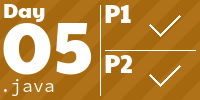
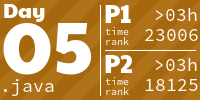
aoc tiles updated

diff --git a/README.md b/README.md
@@ -3,7 +3,7 @@
 
 <!-- AOC TILES BEGIN -->
 <h1 align="center">
-  2024 - 50 ⭐ - Java
+  2024 - 26 ⭐ - Java
 </h1>
 <a href="src/main/java/fr/home/mikedev/aoc2024/Main01.java">
   <img src=".aoc_tiles/tiles/2024/01.png" width="161px">
@@ -43,42 +43,6 @@
 </a>
 <a href="src/main/java/fr/home/mikedev/aoc2024/Main13.java">
   <img src=".aoc_tiles/tiles/2024/13.png" width="161px">
-</a>
-<a href="src/main/java/fr/home/mikedev/aoc2024/Main14.java">
-  <img src=".aoc_tiles/tiles/2024/14.png" width="161px">
-</a>
-<a href="src/main/java/fr/home/mikedev/aoc2024/Main15.java">
-  <img src=".aoc_tiles/tiles/2024/15.png" width="161px">
-</a>
-<a href="src/main/java/fr/home/mikedev/aoc2024/Main16.java">
-  <img src=".aoc_tiles/tiles/2024/16.png" width="161px">
-</a>
-<a href="src/main/java/fr/home/mikedev/aoc2024/Main17.java">
-  <img src=".aoc_tiles/tiles/2024/17.png" width="161px">
-</a>
-<a href="src/main/java/fr/home/mikedev/aoc2024/Main18.java">
-  <img src=".aoc_tiles/tiles/2024/18.png" width="161px">
-</a>
-<a href="src/main/java/fr/home/mikedev/aoc2024/Main19.java">
-  <img src=".aoc_tiles/tiles/2024/19.png" width="161px">
-</a>
-<a href="src/main/java/fr/home/mikedev/aoc2024/Main20.java">
-  <img src=".aoc_tiles/tiles/2024/20.png" width="161px">
-</a>
-<a href="src/main/java/fr/home/mikedev/aoc2024/Main21.java">
-  <img src=".aoc_tiles/tiles/2024/21.png" width="161px">
-</a>
-<a href="src/main/java/fr/home/mikedev/aoc2024/Main22.java">
-  <img src=".aoc_tiles/tiles/2024/22.png" width="161px">
-</a>
-<a href="src/main/java/fr/home/mikedev/aoc2024/Main23.java">
-  <img src=".aoc_tiles/tiles/2024/23.png" width="161px">
-</a>
-<a href="src/main/java/fr/home/mikedev/aoc2024/Main24.java">
-  <img src=".aoc_tiles/tiles/2024/24.png" width="161px">
-</a>
-<a href="src/main/java/fr/home/mikedev/aoc2024/Main25.java">
-  <img src=".aoc_tiles/tiles/2024/25.png" width="161px">
 </a>
 <!-- AOC TILES END -->
 </body>
